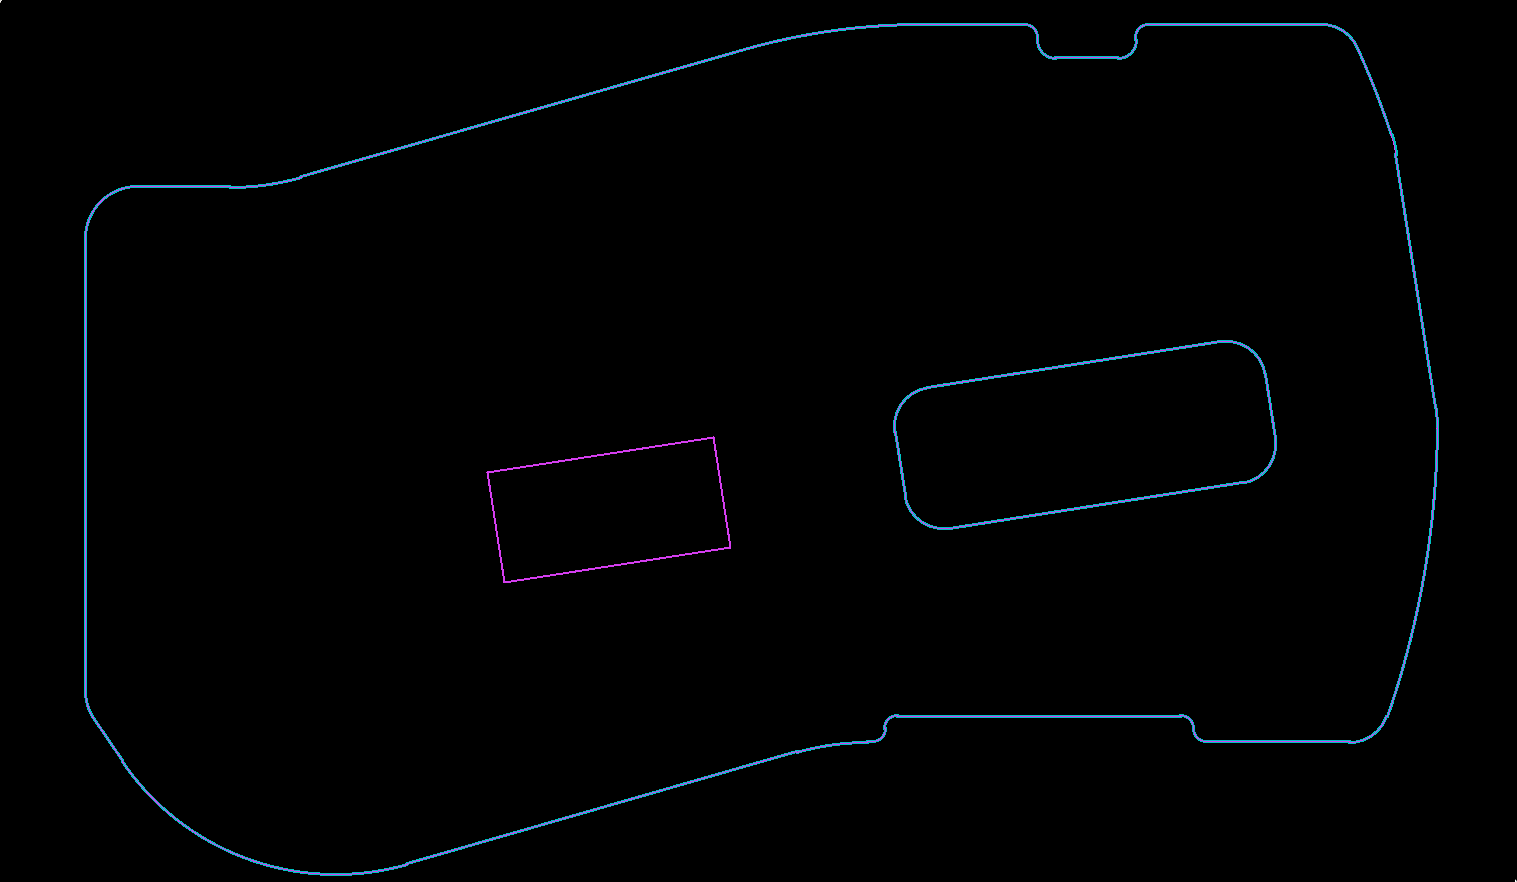
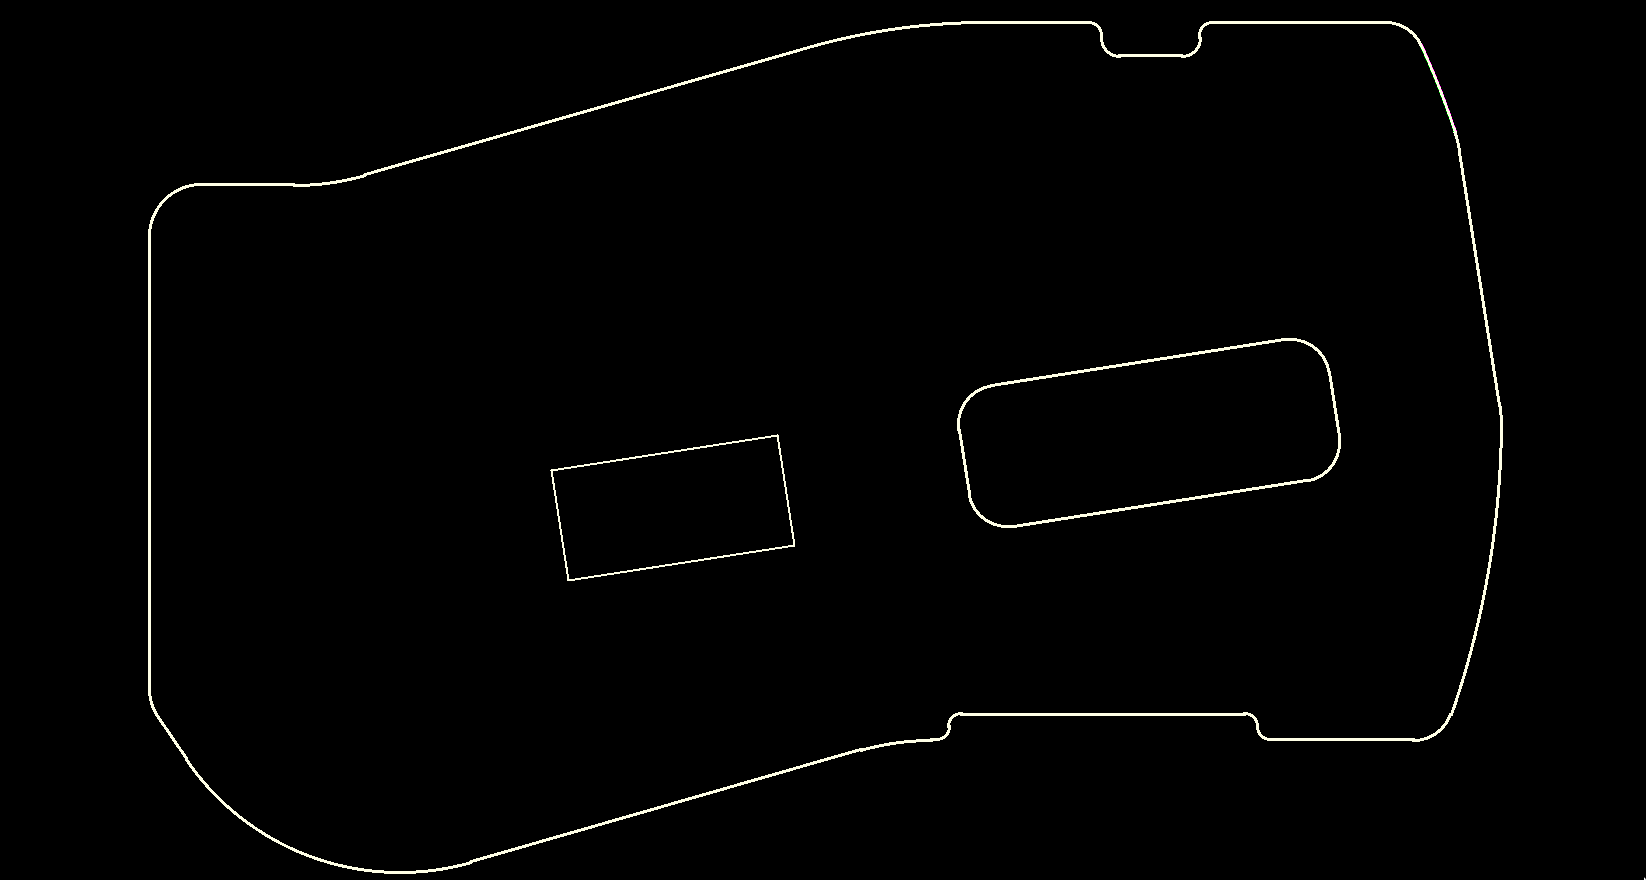
improve edge cuts

diff --git a/README.md b/README.md
@@ -33,9 +33,7 @@ KiCAD version has a bit more portions filled. This should not be an issue.
 
 #### Edge Cuts:
 
-Shape looks identical.
-Only line width is different, but this doesn't change anything for the cut out PCB.
-Probably due to KiCAD "Edge Cut" layer instead of "Board Outline".
+Match.
 
 #### Drill:
 Drill holes look correct.
@@ -46,9 +44,11 @@ Should be no problem.
 No drill mapped to optical sensor in KiCAD, but this should not be an issue.
 
 #### Masks:
+
 Match.
 
 #### Pastes:
+
 Match.
 
 # The Ploopy Mouse
